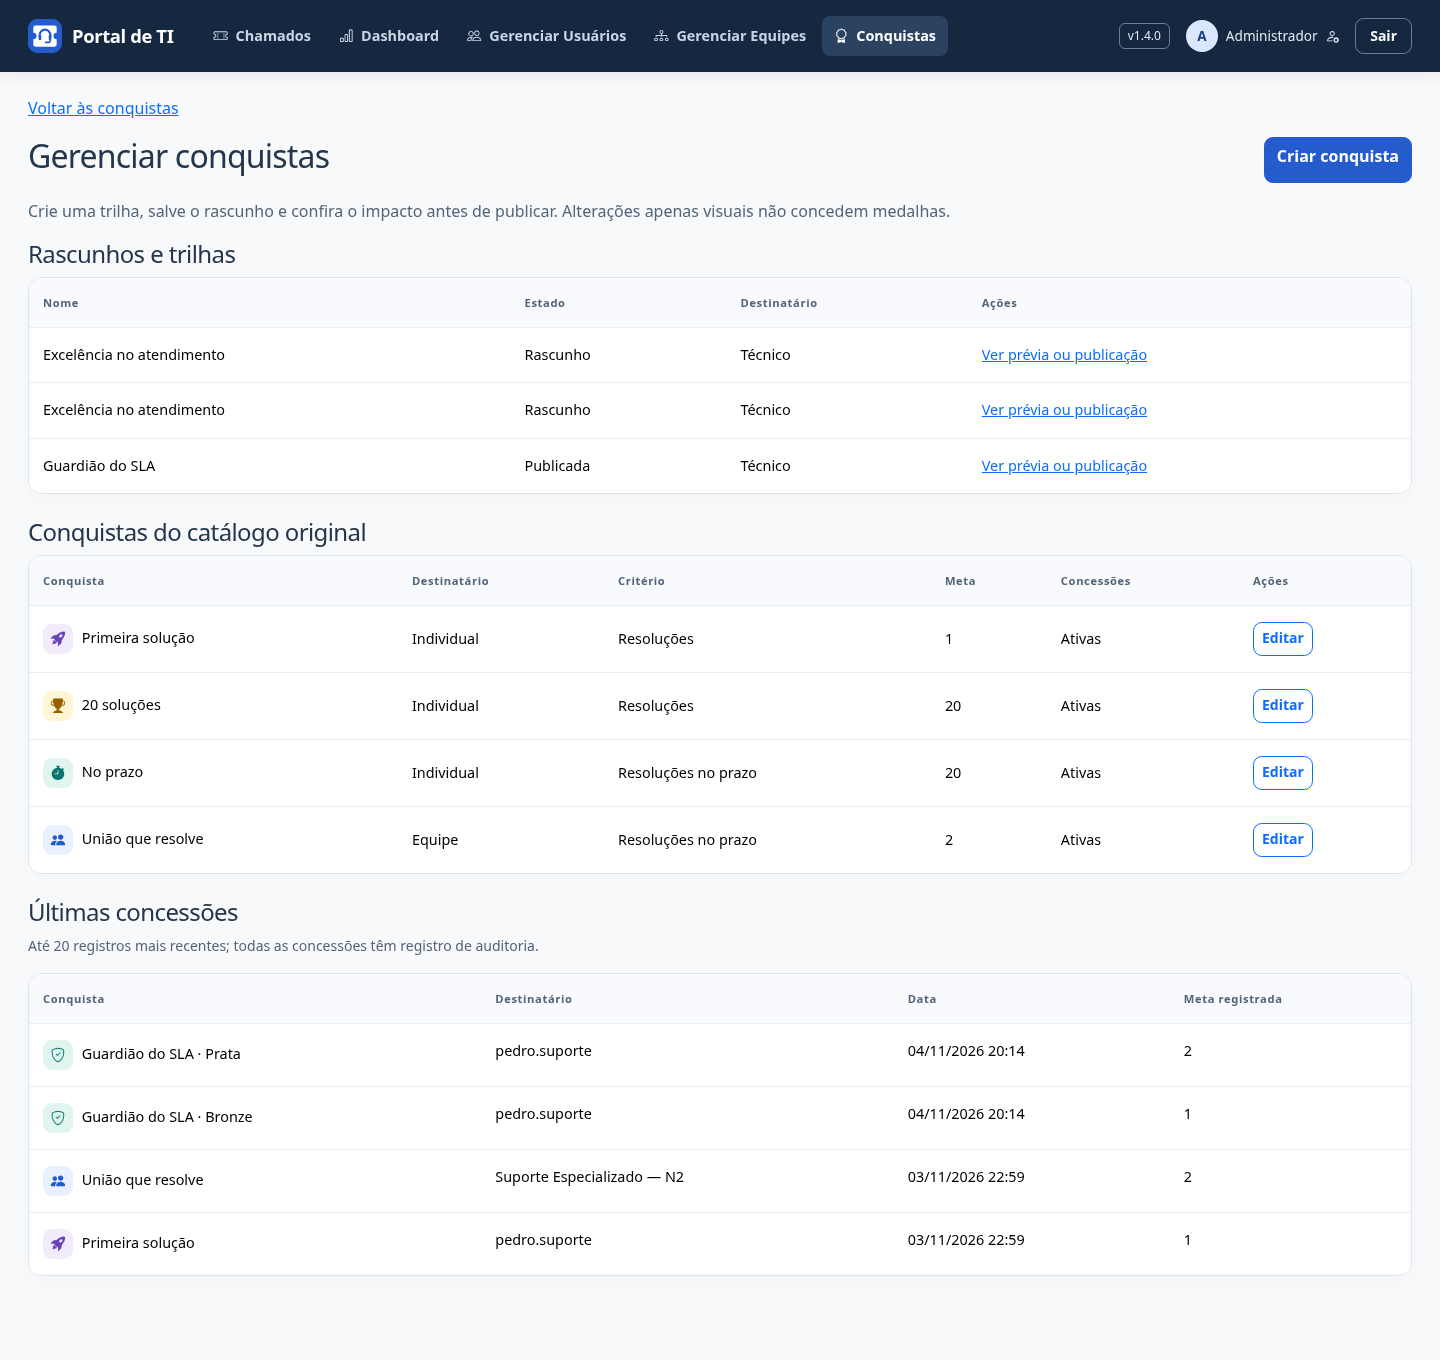
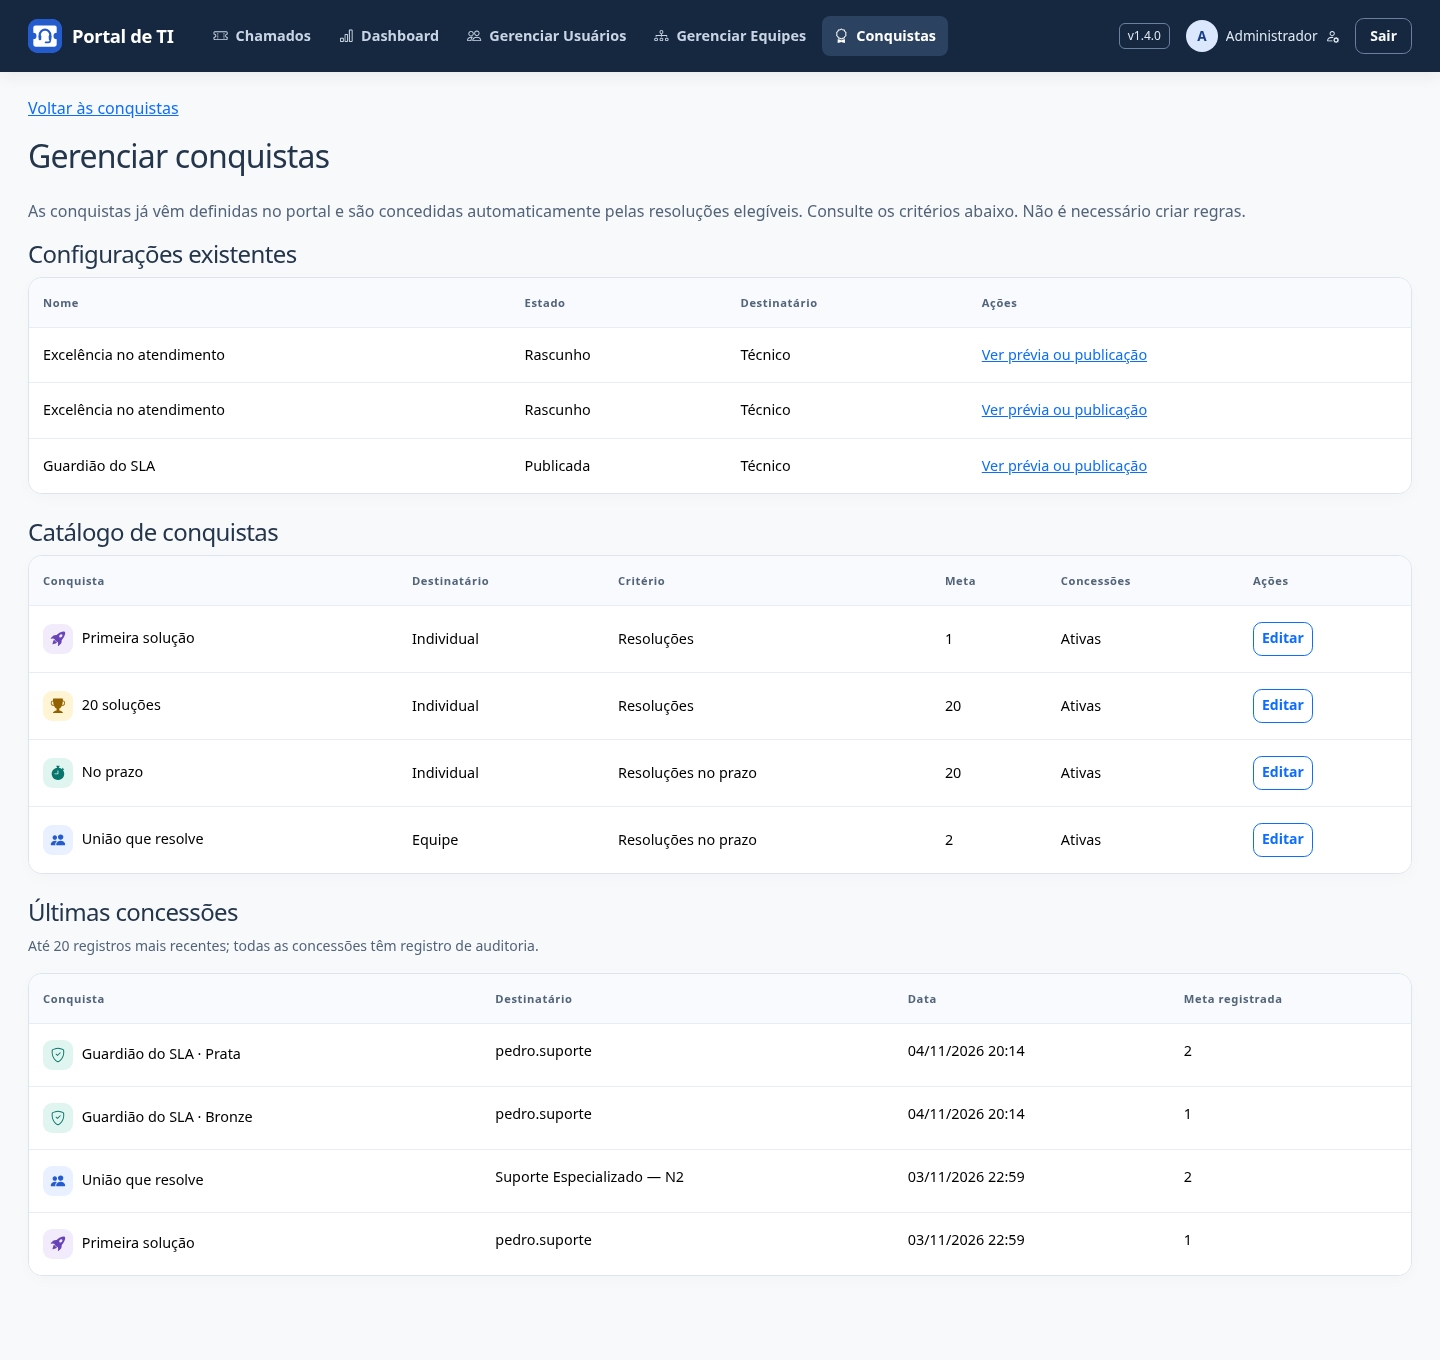
fix: use predefined achievements without creation flow

diff --git a/helpdesk/templates/helpdesk/conquistas/gerenciar.html b/helpdesk/templates/helpdesk/conquistas/gerenciar.html
@@ -1,9 +1,9 @@
 {% extends 'helpdesk/equipes/base.html' %}
 {% block titulo %}Gerenciar conquistas{% endblock %}
 {% block conteudo %}
-<a href="{% url 'minhas_conquistas' %}">Voltar às conquistas</a><div class="d-flex flex-wrap gap-3 justify-content-between mt-3 mb-3"><h1 class="h2">Gerenciar conquistas</h1><a class="btn btn-primary" href="{% url 'criar_plano' %}">Criar conquista</a></div>
-<p class="text-muted">Crie uma trilha, salve o rascunho e confira o impacto antes de publicar. Alterações apenas visuais não concedem medalhas.</p>
-<h2 class="h4">Rascunhos e trilhas</h2><div class="card mb-4"><div class="table-responsive" role="region" aria-label="Planos de conquistas" tabindex="0"><table class="table mb-0"><thead><tr><th>Nome</th><th>Estado</th><th>Destinatário</th><th>Ações</th></tr></thead><tbody>{% for plano in planos %}<tr><td>{{ plano.nome }}{% if plano.regra_origem_id %} · Revisão de regra existente{% endif %}</td><td>{{ plano.get_estado_display }}{% if plano.estado == 'publicada' and not plano.ativa %} · Pausada{% endif %}</td><td>{{ plano.get_alvo_display }}</td><td><a href="{% url 'prever_plano' plano.pk %}">Ver prévia ou publicação</a></td></tr>{% empty %}<tr><td colspan="4">Nenhum rascunho. Use Criar conquista para começar.</td></tr>{% endfor %}</tbody></table></div></div><h2 class="h4">Conquistas do catálogo original</h2>
+<a href="{% url 'minhas_conquistas' %}">Voltar às conquistas</a><div class="d-flex flex-wrap gap-3 justify-content-between mt-3 mb-3"><h1 class="h2">Gerenciar conquistas</h1></div>
+<p class="text-muted">As conquistas já vêm definidas no portal e são concedidas automaticamente pelas resoluções elegíveis. Consulte os critérios abaixo. Não é necessário criar regras.</p>
+{% if planos %}<h2 class="h4">Configurações existentes</h2><div class="card mb-4"><div class="table-responsive" role="region" aria-label="Planos de conquistas" tabindex="0"><table class="table mb-0"><thead><tr><th>Nome</th><th>Estado</th><th>Destinatário</th><th>Ações</th></tr></thead><tbody>{% for plano in planos %}<tr><td>{{ plano.nome }}{% if plano.regra_origem_id %} · Revisão de regra existente{% endif %}</td><td>{{ plano.get_estado_display }}{% if plano.estado == 'publicada' and not plano.ativa %} · Pausada{% endif %}</td><td>{{ plano.get_alvo_display }}</td><td><a href="{% url 'prever_plano' plano.pk %}">Ver prévia ou publicação</a></td></tr>{% empty %}<tr><td colspan="4">Nenhuma configuração adicional.</td></tr>{% endfor %}</tbody></table></div></div>{% endif %}<h2 class="h4">Catálogo de conquistas</h2>
 <div class="card mb-4"><div class="table-responsive" role="region" aria-label="Regras de conquistas" tabindex="0"><table class="table mb-0 align-middle"><thead><tr><th scope="col">Conquista</th><th scope="col">Destinatário</th><th scope="col">Critério</th><th scope="col">Meta</th><th scope="col">Concessões</th><th scope="col">Ações</th></tr></thead><tbody>
 {% for regra in regras %}<tr><td><span class="conquista-mini conquista-{{ regra.visual.cor }}" aria-hidden="true"><i class="bi bi-{{ regra.visual.simbolo }}"></i></span> {{ regra.nome }}</td><td>{{ regra.get_alvo_display }}</td><td>{{ regra.get_metrica_display }}</td><td>{{ regra.meta }}</td><td>{% if regra.ativa %}Ativas{% else %}Pausadas{% endif %}</td><td><a class="btn btn-sm btn-outline-primary" href="{% url 'editar_conquista' regra.pk %}">Editar</a></td></tr>{% endfor %}</tbody></table></div></div>
 <h2 class="h4">Últimas concessões</h2><p class="text-muted small">Até 20 registros mais recentes; todas as concessões têm registro de auditoria.</p><div class="card"><div class="table-responsive" role="region" aria-label="Concessões recentes" tabindex="0"><table class="table mb-0"><thead><tr><th scope="col">Conquista</th><th scope="col">Destinatário</th><th scope="col">Data</th><th scope="col">Meta registrada</th></tr></thead><tbody>{% for conquista in recentes %}<tr><td><span class="conquista-mini conquista-{{ conquista.visual.cor }}" aria-hidden="true"><i class="bi bi-{{ conquista.visual.simbolo }}"></i></span> {{ conquista.nome }}{% if conquista.nivel %} · {{ conquista.get_nivel_display }}{% endif %}</td><td>{% if conquista.usuario %}{{ conquista.usuario.username }}{% else %}{{ conquista.equipe.nome }}{% endif %}</td><td>{{ conquista.alcancada_em|date:'d/m/Y H:i' }}</td><td>{{ conquista.meta }}</td></tr>{% empty %}<tr><td colspan="4">Nenhuma conquista concedida ainda.</td></tr>{% endfor %}</tbody></table></div></div>

diff --git a/helpdesk/templates/helpdesk/conquistas/previa.html b/helpdesk/templates/helpdesk/conquistas/previa.html
@@ -14,6 +14,6 @@
 {% if pode_confirmar %}<p><strong class="display-6">{{ impacto.total }}</strong> {{ impacto.total|pluralize:"nova medalha seria concedida,novas medalhas seriam concedidas" }} agora.</p><ul>{% for etapa in impacto.etapas %}<li>{{ etapa.nome }}: {{ etapa.novas }} {{ etapa.novas|pluralize:"nova medalha,novas medalhas" }}.</li>{% endfor %}</ul>
 {% if not plano.ativa and plano.estado == 'rascunho' %}<p>Esta proposta será publicada pausada, sem concessões.</p>{% elif plano.contagem == 'publicacao' and not plano.regra_origem_id and plano.estado == 'rascunho' %}<p class="text-muted">A contagem começará na publicação. Eventos anteriores não geram medalhas.</p>{% endif %}
 {% if not desatualizado %}<form method="post" action="{% url 'publicar_plano' plano.pk %}">{% csrf_token %}<input type="hidden" name="confirmacao" value="{{ impacto.token }}"><button class="btn btn-primary" type="submit">{% if plano.estado == 'publicada' %}Confirmar retomada{% else %}Confirmar publicação{% endif %}</button></form><p class="small text-muted mt-3 mb-0">A prévia vale por 15 minutos. Se os critérios ou destinatários elegíveis mudarem, você precisará revisar o impacto novamente.</p>{% endif %}
-{% else %}<p>A publicação foi concluída em {{ plano.publicada_em|date:'d/m/Y H:i' }}. Abrir esta página não concede medalhas.</p>{% if plano.regra_origem_id %}<p><a href="{% url 'editar_conquista' plano.regra_origem_id %}">Editar a regra original ou propor outra revisão</a></p>{% endif %}{% if not plano.regra_origem_id %}<form method="post" action="{% url 'pausar_plano' plano.pk %}">{% csrf_token %}<input type="hidden" name="versao" value="{{ plano.versao }}"><button class="btn btn-outline-secondary" type="submit">Pausar concessões</button></form><p class="small text-muted mt-3">Para outros critérios ou metas, crie uma nova conquista. As medalhas desta trilha permanecem preservadas.</p>{% endif %}{% endif %}
+{% else %}<p>A publicação foi concluída em {{ plano.publicada_em|date:'d/m/Y H:i' }}. Abrir esta página não concede medalhas.</p>{% if plano.regra_origem_id %}<p><a href="{% url 'editar_conquista' plano.regra_origem_id %}">Editar a regra original ou propor outra revisão</a></p>{% endif %}{% if not plano.regra_origem_id %}<form method="post" action="{% url 'pausar_plano' plano.pk %}">{% csrf_token %}<input type="hidden" name="versao" value="{{ plano.versao }}"><button class="btn btn-outline-secondary" type="submit">Pausar concessões</button></form><p class="small text-muted mt-3">Os critérios desta configuração foram preservados. As medalhas recebidas permanecem no histórico.</p>{% endif %}{% endif %}
 </div></div></div></div>
 {% endblock %}

diff --git a/helpdesk/templates/helpdesk/conquistas/construtor.html b/helpdesk/templates/helpdesk/conquistas/construtor.html
@@ -1,7 +1,7 @@
 {% extends 'helpdesk/equipes/base.html' %}
 {% block titulo %}Construtor de conquistas{% endblock %}
 {% block conteudo %}
-<a href="{% url 'gerenciar_conquistas' %}">Voltar à gestão</a><h1 class="h2 mt-3">{% if plano.regra_origem_id %}Revisar critério{% else %}Criar conquista com níveis{% endif %}</h1>
+<a href="{% url 'gerenciar_conquistas' %}">Voltar à gestão</a><h1 class="h2 mt-3">{% if plano.regra_origem_id %}Revisar critério{% else %}Revisar configuração existente{% endif %}</h1>
 <p class="text-muted">Defina quem recebe, o que conta e as metas. Salvar rascunho não concede medalhas.</p>
 {% if plano.regra_origem_id %}<div class="alert alert-info">Esta proposta mantém o destinatário, o critério e o início da regra existente. Revise a proposta e salve novamente se a regra original foi alterada.</div>{% endif %}
 <div class="card" style="max-width:900px"><div class="card-body p-4"><form method="post">{% csrf_token %}{{ form.non_field_errors }}{% for hidden in form.hidden_fields %}{{ hidden }}{{ hidden.errors }}{% endfor %}

diff --git a/helpdesk/test_construtor_conquistas.py b/helpdesk/test_construtor_conquistas.py
@@ -25,13 +25,18 @@ class ConstrutorTests(ConquistasFixtureMixin, TestCase):
             token=self.client.get(reverse('prever_plano',args=[plano.pk])).context['impacto']['token']
         return self.client.post(reverse('publicar_plano',args=[plano.pk]),{'confirmacao':token})
 
-    def test_criar_e_salvar_rascunho_nao_publica_nem_concede(self):
+    def test_catalogo_nao_permite_criacao_por_get_ou_post(self):
         self.client.force_login(self.admin)
-        r=self.client.post(reverse('criar_plano'),self.dados())
-        self.assertEqual(r.status_code,302)
-        p=PlanoConquista.objects.get();self.assertEqual(p.estado,'rascunho')
-        self.assertEqual(p.versao,1);self.assertFalse(p.niveis.exists())
-        self.assertFalse(Conquista.objects.exists());self.assertEqual(RegraConquista.objects.count(),4)
+        for metodo in ('get','post'):
+            r=getattr(self.client,metodo)(reverse('criar_plano'),self.dados() if metodo=='post' else {})
+            self.assertEqual(r.status_code,403)
+        self.assertFalse(PlanoConquista.objects.exists())
+        self.assertEqual(RegraConquista.objects.count(),4)
+        self.assertFalse(Conquista.objects.exists())
+        r=self.client.get(reverse('gerenciar_conquistas'))
+        self.assertContains(r,'Catálogo de conquistas')
+        self.assertNotContains(r,'Criar conquista')
+        self.assertNotContains(r,'Configurações existentes')
 
     def test_ordem_e_limites_dos_niveis_e_metricas_fechadas(self):
         for extra in [{'prata':1},{'ouro':2},{'bronze':0},{'ouro':100001},{'prata':''},{'ouro':''},
@@ -222,11 +227,13 @@ class ConstrutorTests(ConquistasFixtureMixin, TestCase):
         self.assertEqual(Conquista.objects.filter(regra__plano=p).count(),1)
         self.assertFalse(Conquista.objects.filter(regra__plano=p,usuario=self.outro).exists())
 
-    def test_auditoria_com_falha_reverte_criacao_do_rascunho(self):
-        self.client.force_login(self.admin)
-        with patch('helpdesk.construtor_conquistas.registrar',side_effect=RuntimeError('falha')):
-            with self.assertRaises(RuntimeError):self.client.post(reverse('criar_plano'),self.dados())
-        self.assertFalse(PlanoConquista.objects.exists())
+    def test_configuracoes_anteriores_continuam_acessiveis_sem_criacao(self):
+        p=self.plano();self.publicar(p)
+        r=self.client.get(reverse('gerenciar_conquistas'))
+        self.assertContains(r,'Configurações existentes')
+        self.assertContains(r,p.nome)
+        self.assertNotContains(r,'Criar conquista')
+        self.assertEqual(self.client.get(reverse('prever_plano',args=[p.pk])).status_code,200)
 
     def test_revisao_publicada_pausada_nao_pode_ser_retomada_como_trilha(self):
         p=self.plano(regra_origem=self.regra,base_versao=self.regra.versao,

diff --git a/scripts/test_homologacao.py b/scripts/test_homologacao.py
@@ -103,10 +103,10 @@ assert response.status_code==302
 assert Conquista.objects.filter(usuario=user,regra__codigo='primeira-solucao').exists()
 admin=User.objects.create_superuser('validation-admin','admin@example.invalid','validation-only-not-production')
 client.force_login(admin)
-response=client.post('/conquistas/nova/',{'nome':'Trilha de validação','descricao':'Fixture','icone':'escudo',
-    'alvo':'pessoa','metrica':'no_prazo','bronze':1,'prata':2,'ouro':3,'contagem':'historico','ativa':'on','versao_atual':0},secure=True,HTTP_HOST='localhost')
-assert response.status_code==302
-plano=PlanoConquista.objects.get(nome='Trilha de validação')
+# Configuração anterior à restrição: permanece publicável e restaurável.
+assert client.post('/conquistas/nova/',{},secure=True,HTTP_HOST='localhost').status_code==403
+plano=PlanoConquista.objects.create(nome='Trilha de validação',descricao='Fixture',icone='escudo',
+    alvo='pessoa',metrica='no_prazo',bronze=1,prata=2,ouro=3,contagem='historico')
 assert plano.estado=='rascunho' and not plano.niveis.exists()
 from helpdesk.construtor_conquistas import previsao
 response=client.post(f'/conquistas/planos/{plano.pk}/publicar/',{'confirmacao':previsao(plano)['token']},secure=True,HTTP_HOST='localhost')

diff --git a/helpdesk/construtor_conquistas.py b/helpdesk/construtor_conquistas.py
@@ -9,6 +9,7 @@ from django.core.exceptions import PermissionDenied
 from django.db import transaction
 from django.db.models import F, Min
 from django.shortcuts import get_object_or_404, redirect, render
+from django.http import HttpResponseForbidden
 from django.views.decorators.http import require_GET, require_http_methods, require_POST
 
 from .audit import registrar
@@ -159,7 +160,9 @@ def conceder_previa(regra, etapa):
 def editar_plano(request, plano_id=None):
     if not request.user.is_superuser:
         raise PermissionDenied
-    plano = plano_bloqueado(plano_id) if plano_id else PlanoConquista()
+    if plano_id is None:
+        return HttpResponseForbidden('O portal utiliza conquistas predefinidas. A criação de novas conquistas está desabilitada.')
+    plano = plano_bloqueado(plano_id)
     if plano.estado != 'rascunho':
         return redirect('prever_plano', plano_id=plano.pk)
     form = PlanoForm(request.POST if request.method == 'POST' else None, instance=plano)

diff --git a/docs/conquistas.md b/docs/conquistas.md
@@ -2,32 +2,17 @@
 
 Acesse **Conquistas** para acompanhar o progresso individual e das equipes acessíveis. A coleção agrupa os níveis de cada conquista e aponta a próxima medalha. O perfil mostra até três medalhas individuais recentes; o encerramento avisa quando um novo nível é desbloqueado.
 
-## Criar uma conquista
+## Catálogo pronto para usar
 
-Somente administradores acessam **Conquistas → Gerenciar conquistas → Criar conquista**.
+As conquistas já vêm cadastradas. Não é necessário preencher formulários, criar regras ou publicar conquistas para começar: as resoluções elegíveis geram progresso automaticamente.
 
-1. **Defina a regra:** quem recebe (técnico ou equipe), o que conta (resoluções elegíveis ou dentro do SLA) e quando começa a contagem.
-2. **Defina as metas:** Bronze, Prata e Ouro com números crescentes entre 1 e 100.000. Exemplo: 5, 20 e 50 resoluções dentro do SLA. As metas são acumuladas, sem janela mensal.
-3. **Personalize:** nome, descrição e um dos oito símbolos. A descrição explica a conquista; o critério é determinado pelos campos anteriores.
-4. **Salve o rascunho:** isso não cria medalhas nem altera regras publicadas.
-5. **Confira a prévia:** ela mostra os critérios e quantas novas medalhas cada nível concederia. Confirme somente após revisar o impacto.
+**Conquistas → Gerenciar conquistas** permite ao administrador consultar critérios e concessões. O botão de criação foi removido e o endereço antigo recusa GET e POST, inclusive para administradores.
 
-**A partir da publicação** começa do zero, sem eventos anteriores. **Incluir eventos elegíveis já registrados** usa o histórico desde a instalação das conquistas: chamados antigos sem evento não são analisados nem convertidos em progresso.
+As configurações criadas antes desta mudança permanecem acessíveis, com seus níveis e medalhas. Suas revisões continuam passando por prévia e confirmação; nenhuma configuração ou medalha é excluída. Trocar a aparência não concede medalhas. Pausas preservam o progresso, e retomadas exigem confirmação do impacto. Não é possível criar novas conquistas pelo portal.
 
-A confirmação assinada vale por 15 minutos. Se o rascunho, a regra original ou os destinatários elegíveis mudarem, a publicação exige uma nova revisão. Repetir uma publicação concluída não duplica medalhas. Abrir páginas nunca concede medalhas.
+## Conquistas predefinidas
 
-## Após publicar
-
-- **Editar aparência:** muda nome, descrição e ícone para futuras medalhas, sem reavaliar progresso nem reescrever as recebidas.
-- **Pausar concessões:** preserva medalhas e início da contagem. Os eventos de resolução continuam sendo registrados.
-- **Retomar:** exige revisar e confirmar o impacto das resoluções acumuladas durante a pausa.
-- **Mudar critérios ou metas de uma nova conquista:** crie outra conquista. A regra publicada permanece fixa, preservando o significado das medalhas.
-
-Uma conquista pode ser publicada pausada. Seus níveis ficam disponíveis sem concessões até a retomada confirmada.
-
-## Catálogo anterior e migração
-
-As quatro conquistas da v1.3.0 continuam independentes, sem conversão automática em níveis:
+As quatro conquistas iniciais são:
 
 | Conquista | Destinatário | Meta inicial |
 | --- | --- | --- |
@@ -64,9 +49,5 @@ Faça backup, atualize o código, aplique `python manage.py migrate`, colete est
 Capturas com contas e dados fictícios; metas reduzidas apenas para demonstrar a evolução.
 
 ![Coleção e progresso por nível](imagens/conquistas.png)
-
-![Regra, níveis e identidade no construtor](imagens/construtor-conquista.png)
-
-![Prévia do impacto antes da confirmação](imagens/previa-conquista.png)
 
 ![Gestão de conquistas e histórico](imagens/gestao-conquistas.png)

diff --git a/README.md b/README.md
@@ -17,13 +17,9 @@ As capturas da galeria principal foram registradas na **v1.1.0**, com a marca at
 
 ## Conquistas
 
-A v1.4.0 inclui um **construtor de conquistas**: escolha técnico ou equipe, resoluções totais ou dentro do SLA, metas de **Bronze, Prata e Ouro** e um dos oito ícones. Salve um rascunho, confira os critérios e a quantidade de medalhas previstas e só então publique. A contagem pode começar na publicação ou incluir eventos elegíveis já registrados. As quatro conquistas anteriores e suas medalhas são preservadas. [Critérios e operação](docs/conquistas.md).
+O portal já vem com **quatro conquistas predefinidas**, concedidas automaticamente: Primeira solução, 20 soluções, No prazo e União que resolve. Acompanhe o progresso em **Conquistas** e as medalhas no perfil. Não há opção de criar novas conquistas. O administrador consulta o catálogo e gerencia as configurações existentes sem apagar medalhas recebidas. [Critérios e operação](docs/conquistas.md).
 
-![Conquistas com níveis e progresso, usando dados fictícios](docs/imagens/conquistas.png)
-
-![Construtor com critérios, metas e identidade da conquista](docs/imagens/construtor-conquista.png)
-
-![Prévia administrativa antes da publicação](docs/imagens/previa-conquista.png)
+![Coleção de conquistas e progresso com dados fictícios](docs/imagens/conquistas.png)
 
 ## Meu Perfil
 

diff --git a/docs/releases/v1.4.0.md b/docs/releases/v1.4.0.md
@@ -2,6 +2,8 @@
 
 Construtor de conquistas
 
+**Ajuste posterior:** o portal passou a usar o catálogo predefinido, sem criação de novas conquistas. As configurações anteriores permanecem preservadas. [Operação atual](../conquistas.md).
+
 O administrador agora cria conquistas em **Conquistas → Gerenciar conquistas → Criar conquista**. O formulário separa a regra, as metas e a aparência; a prévia traduz as escolhas em critérios e mostra o impacto antes da publicação.
 
 - Destinatário: técnico ou equipe. Métrica: resoluções elegíveis ou resoluções dentro do SLA.

diff --git a/CHANGELOG.md b/CHANGELOG.md
@@ -1,5 +1,11 @@
 # Histórico de atualizações
 
+## Ajustes após a v1.4.0 — Catálogo predefinido
+
+- Criação de conquistas desabilitada na interface e no servidor, inclusive para administradores.
+- Catálogo inicial pronto para uso; configurações e medalhas anteriores preservadas.
+- Gestão e documentação simplificadas, sem nova migração.
+
 ## v1.4.0 — Construtor de conquistas
 
 - Criação administrativa com destinatário, métrica, início de contagem e níveis Bronze, Prata e Ouro.
